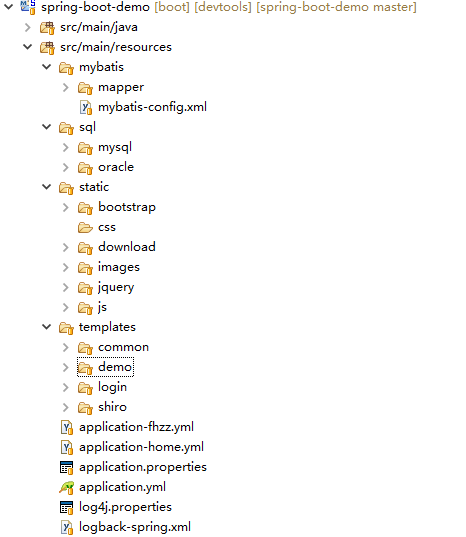
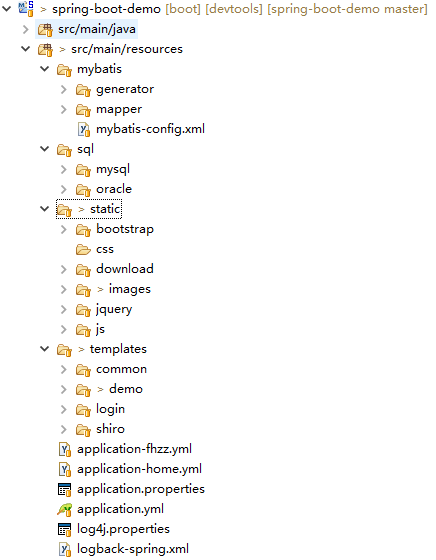
提交一次

Changed region(s): [[0.0, 0.0, 0.9839, 1.0]]

diff --git a/src/main/resources/templates/demo/summary/menu-structure-intro.html b/src/main/resources/templates/demo/summary/menu-structure-intro.html
@@ -6,6 +6,7 @@
 </head>
 <body>
 	<div class="container">
+		<h2>2018.9.18更新</h2>
 		<h2>java目录</h2>
 		<div class="row">
 			<div class="col-md-5">
@@ -23,13 +24,11 @@
 				</p>
 				<img src="/images/demo/summary/3.png" />
 				<p>dao下1级包：区分不同的数据源（数据库)，例如master和slave1</p>
-				<p>dao下2级包：功能模块名称，例如demo，shiro</p>
-				<p>dao下3级包：使用不同的dao层技术，jpa包即使用jpa的方式，mapper包即使用mybatis的方式。通常情况，增、删、改和简单的查询推荐使用JPA，复杂的查询推荐使用Mybatis</p>
+				<p>dao下2级包：使用不同的dao层技术，分为jpa包和mybaits包。针对同一个表，可使用二者之一或同时使用。<p>
 				<p>
 					<strong>entity：</strong>
 				</p>
 				<p>entity下1级包：区分不同的数据源（数据库)，例如master和slave1，与dao层中对应</p>
-				<p>entity下2级包：功能模块名称，与dao层中对应</p>
 				<p>
 					<strong>service：</strong>Service层，服务层，一般都是接口，在impl包下写实现类。
 				</p>
@@ -48,10 +47,10 @@
 					<strong>mybatis：</strong>mybatis的xml文件，包括配置和sql语句，详细如下图所示
 				</p>
 				<img src="/images/demo/summary/4.png" />
-				<p>mybatis-config.xml：配置文件</p>
-				<p>一级目录：mapper固定写法</p>
+				<p>mybatis-config.xml：mybatis配置文件</p>
+				<p>mybatis-generator-config.xml：mybatis配置文件</p>
+				<p>一级目录：mapper存放sql映射xml文件，generator存放mybatis-generator自动生成代码的配置文件</p>
 				<p>二级目录：区分不同的数据源（数据库)，例如master和slave1</p>
-				<p>三级目录：功能模块名称，例如demo，shiro</p>
 				<p>
 					<strong>sql：</strong>sql脚本
 				</p>

diff --git a/src/main/java/com/fhzz/springbootdemo/util/mybatis/GeneratorMain.java b/src/main/java/com/fhzz/springbootdemo/util/mybatis/GeneratorMain.java
@@ -26,7 +26,7 @@ public class GeneratorMain {
 		List<String> warnings = new ArrayList<String>();
 		boolean overwrite = true;
 		// 如果这里出现空指针，直接写绝对路径即可。
-		URL url = GeneratorMain.class.getResource("../../../../../mybatis/generator/generatorConfig.xml");
+		URL url = GeneratorMain.class.getResource("../../../../../mybatis/mybatis-generator-config.xml");
 		File configFile = new File(url.getFile());
 		ConfigurationParser cp = new ConfigurationParser(warnings);
 		Configuration config = null;
